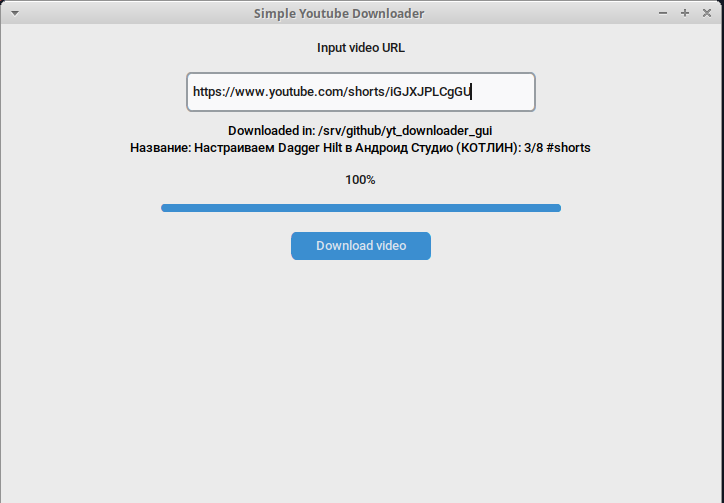
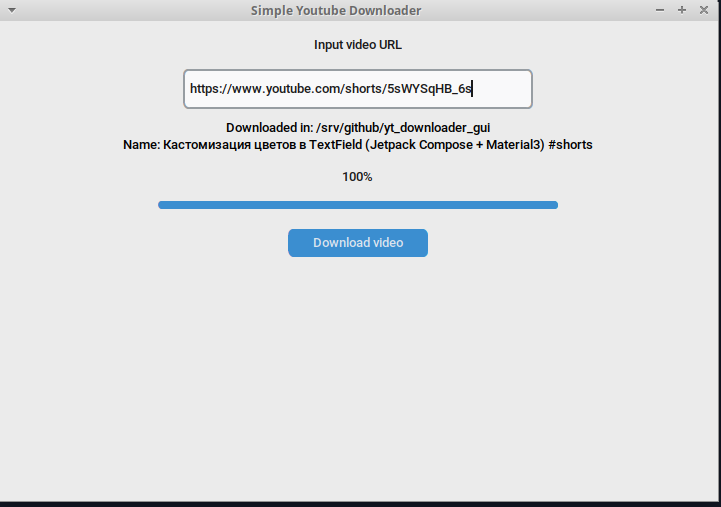
Fix readme

Changed region(s): [[0.0, 0.0, 1.0, 0.5368], [0.0, 0.9841, 1.0, 1.0]]

diff --git a/yt_downloader_gui/youtube_downloader.py b/yt_downloader_gui/youtube_downloader.py
@@ -62,7 +62,7 @@ class YouTubeDownloader(customtkinter.CTk):
 
             video.download(save_path)
             self.finish_label.configure(
-                text=f"Downloaded in: {save_path}\nНазвание: {yt.title}",
+                text=f"Downloaded in: {save_path}\nName: {yt.title}",
                 text_color="black"
             )
         except Exception as err:
